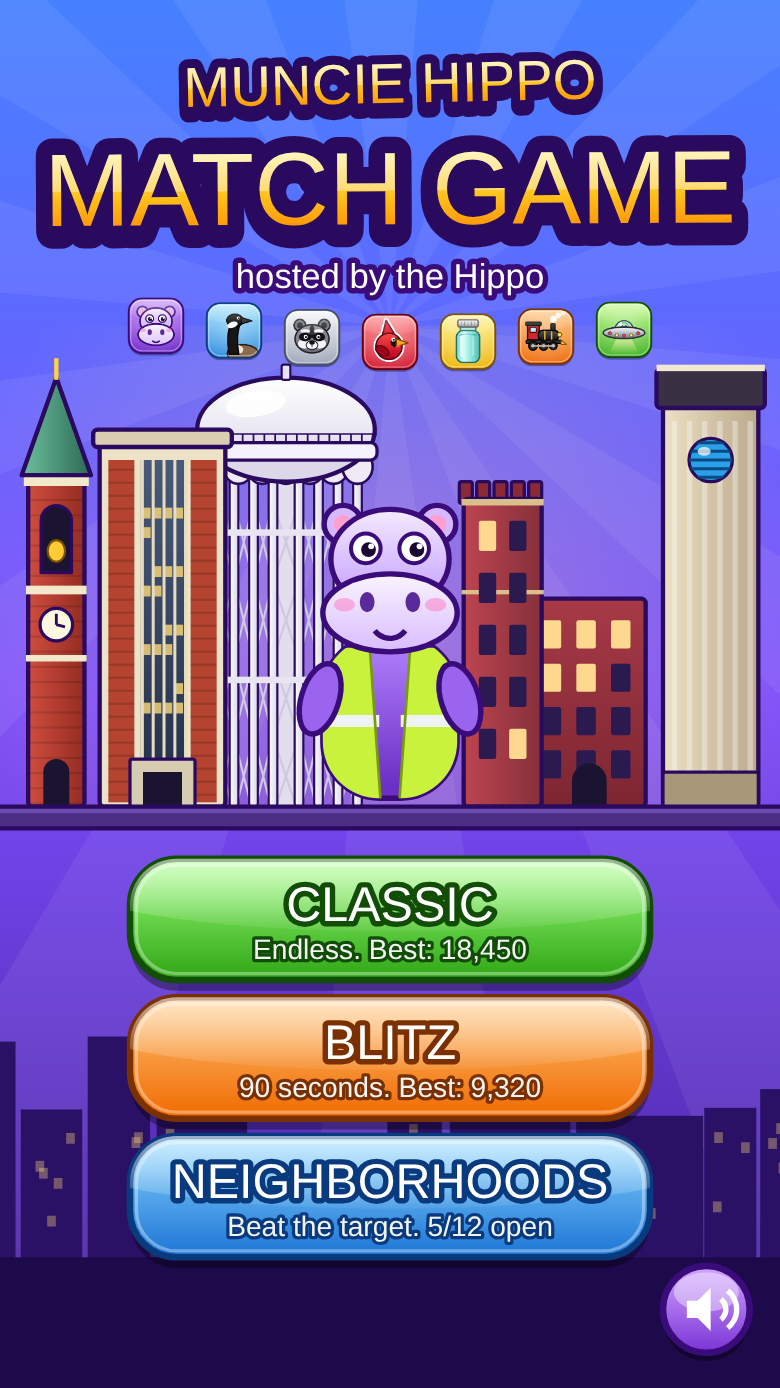
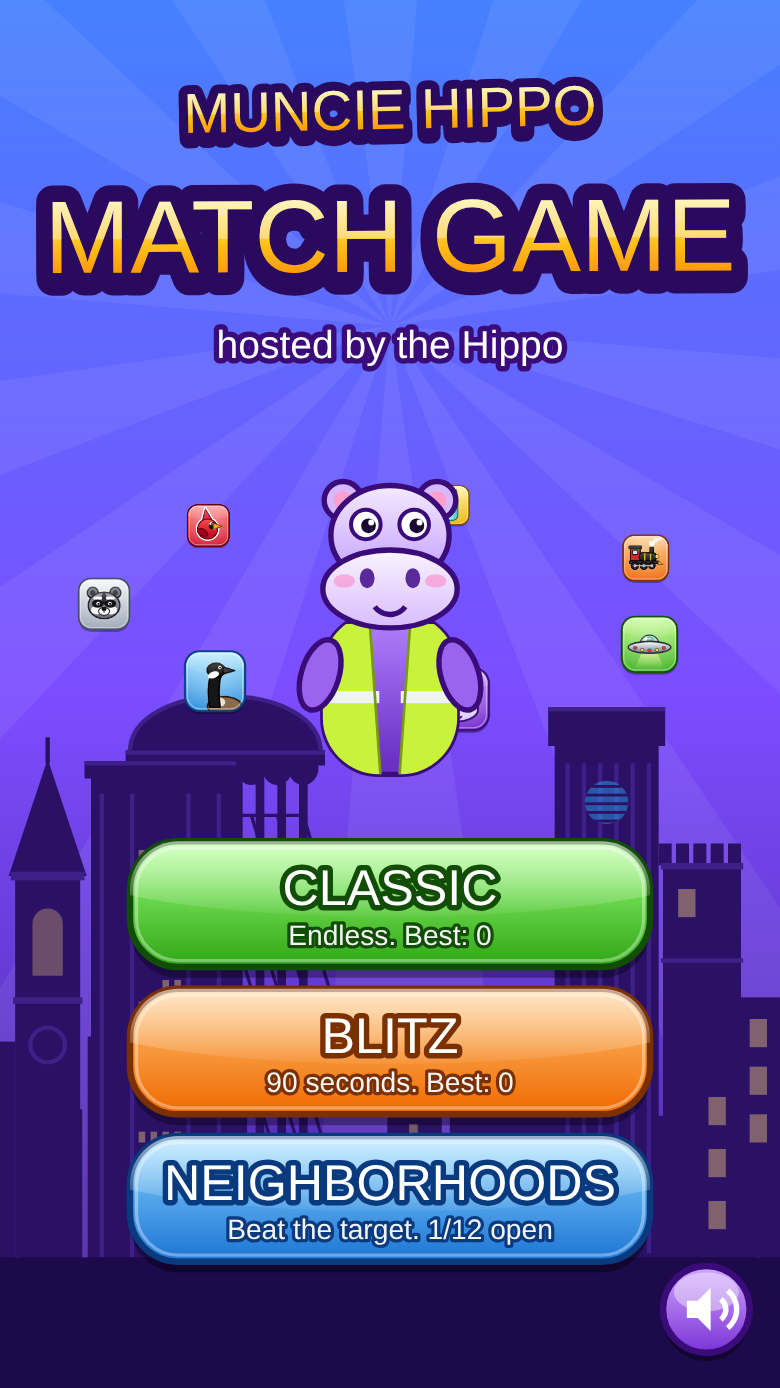
Restore the original title layout and work the landmarks into the skyline silhouette
Claude-Session: https://claude.ai/code/session_01RATZJKJaEyU6qf2SM5KjGB

diff --git a/index.html b/index.html
@@ -386,74 +386,48 @@ function drawBG(){const x0=-OX/SC,y0=-OY/SC,w=CW/SC,h=CH/SC;
  ctx.fillStyle='#2b1166';SKY.forEach(b=>{ctx.fillRect(b.x,base-b.h,b.w,b.h+400);});
  SKY.forEach(b=>b.win.forEach(p=>{if(p[2]){ctx.fillStyle='rgba(255,220,120,.35)';ctx.fillRect(b.x+p[0],base-b.h+p[1],4,5);}}));
  if(screen!=='title'){ctx.fillStyle='#2b1166';ctx.fillRect(296,base-118,5,60);ctx.fillRect(318,base-118,5,60);E(ctx,309,base-128,24,18,'#2b1166');P(ctx,[285,base-130,309,base-152,333,base-130],'#2b1166');}
+ if(screen==='title')skyLandmarks(base);
  ctx.fillStyle='#1d0a4a';ctx.fillRect(x0,base,w,y0+h-base);}
 
 /* ---------- screens ---------- */
-const OL='#2a0a5e',GY=372;
 function lit(i){return ((i*2654435761)>>>0)%5<2;}
-function lmShafer(x){const w=26,h=150,top=GY-h;
- R(ctx,x-w/2,top,w,h,2,lg(ctx,x-w/2,0,x+w/2,0,['#cf4d3e','#952c22']),OL,2);
- ctx.fillStyle='rgba(0,0,0,.12)';for(let r=top+8;r<GY;r+=7)ctx.fillRect(x-w/2+1,r,w-2,1);
- ctx.fillStyle='#f2e8cc';ctx.fillRect(x-w/2-2,top-4,w+4,6);ctx.fillRect(x-w/2-1,top+48,w+2,4);ctx.fillRect(x-w/2-1,top+80,w+2,3);
- P(ctx,[x-w/2-3,top-3,x,top-48,x+w/2+3,top-3],lg(ctx,x-16,0,x+16,0,['#6cc09c','#2c6a54']),OL,2);
- ctx.fillStyle='#ffd23f';ctx.fillRect(x-1,top-57,2,10);
- ctx.beginPath();ctx.moveTo(x-7,top+42);ctx.lineTo(x-7,top+18);ctx.arc(x,top+18,7,Math.PI,0);ctx.lineTo(x+7,top+42);ctx.closePath();ctx.fillStyle='#1a1430';ctx.fill();ctx.lineWidth=1.5;ctx.strokeStyle=OL;ctx.stroke();
- E(ctx,x,top+32,4,5,'#ffcc33','#7a5200',1);
- C(ctx,x,top+66,7.5,'#fff8e0',OL,1.5);ctx.strokeStyle=OL;ctx.lineWidth=1.3;ctx.beginPath();ctx.moveTo(x,top+66);ctx.lineTo(x,top+61);ctx.moveTo(x,top+66);ctx.lineTo(x+4,top+67);ctx.stroke();
- ctx.beginPath();ctx.moveTo(x-6,GY);ctx.lineTo(x-6,GY-16);ctx.arc(x,GY-16,6,Math.PI,0);ctx.lineTo(x+6,GY);ctx.closePath();ctx.fillStyle='#1a1430';ctx.fill();}
-function lmTeachers(x){const w=58,h=168,top=GY-h;
- R(ctx,x,top,w,h,2,'#ece2c8',OL,2);
- ctx.fillStyle='#b4432f';ctx.fillRect(x+4,top+8,12,h-10);ctx.fillRect(x+w-16,top+8,12,h-10);
- ctx.fillStyle='rgba(0,0,0,.15)';for(let r=top+12;r<GY;r+=6){ctx.fillRect(x+4,r,12,1);ctx.fillRect(x+w-16,r,12,1);}
- ctx.fillStyle=lg(ctx,0,top,0,GY,['#4a5c7c','#222e48']);ctx.fillRect(x+19,top+8,w-38,h-10);
- for(let r=top+12,i=0;r<GY-24;r+=9)for(let c=0;c<4;c++,i++)if(lit(i+3)){ctx.fillStyle='rgba(255,220,120,.8)';ctx.fillRect(x+20+c*5,r,3.5,5);}
- ctx.fillStyle='#e6dcc0';for(let i=0;i<5;i++)ctx.fillRect(x+19+i*5,top+8,1.4,h-10);
- R(ctx,x-3,top-6,w+6,8,2,'#d9ceb2',OL,2);
- R(ctx,x+14,GY-22,w-28,22,1,'#d6ccb2',OL,1.5);ctx.fillStyle='#1a1430';ctx.fillRect(x+20,GY-16,w-40,16);}
-function lmCornerstone(x){
- R(ctx,x+28,GY-96,56,96,2,lg(ctx,0,GY-96,0,GY,['#a63a46','#7c2632']),OL,2);
- for(let r=0;r<4;r++)for(let c=0;c<3;c++){const k=r*3+c;R(ctx,x+36+c*16,GY-86+r*20,9,13,1,lit(k+11)?'#ffd890':'#2a1a50');}
- ctx.beginPath();ctx.moveTo(x+50,GY);ctx.lineTo(x+50,GY-12);ctx.arc(x+58,GY-12,8,Math.PI,0);ctx.lineTo(x+66,GY);ctx.closePath();ctx.fillStyle='#1a1430';ctx.fill();
- for(let c=0;c<5;c++)R(ctx,x-2+c*8,GY-150,6,10,1,'#8a2a36',OL,1.5);
- R(ctx,x,GY-142,36,142,2,lg(ctx,x,0,x+36,0,['#bd4450','#86303a']),OL,2);
- ctx.fillStyle='#d9c08a';ctx.fillRect(x-1,GY-142,38,3);ctx.fillRect(x-1,GY-100,38,2);
- for(let r=0;r<5;r++){R(ctx,x+7,GY-132+r*24,8,14,1,lit(r+2)?'#ffd890':'#2a1a50');R(ctx,x+21,GY-132+r*24,8,14,1,lit(r+7)?'#ffd890':'#2a1a50');}}
-function lmATT(x){const w=44,h=196,top=GY-h;
- R(ctx,x,top,w,h,2,lg(ctx,x,0,x+w,0,['#ece0c4','#bba98a']),OL,2);
- ctx.fillStyle='rgba(255,255,255,.35)';for(let c=0;c<6;c++)ctx.fillRect(x+4+c*7,top+18,2.5,h-34);
- R(ctx,x-3,top-6,w+6,18,2,'#3a3044',OL,2);ctx.fillStyle='#f2e8d2';ctx.fillRect(x-3,top-8,w+6,3);
- R(ctx,x,GY-16,w,16,1,'#a8987a',OL,1.5);
- const gx=x+w/2,gy=top+36;C(ctx,gx,gy,10,'#2aa0e8',OL,1.5);
- ctx.save();ctx.beginPath();ctx.arc(gx,gy,10,0,Math.PI*2);ctx.clip();ctx.strokeStyle='#0a4a80';ctx.lineWidth=1.4;for(let i=-8;i<=8;i+=4){ctx.beginPath();ctx.moveTo(gx-11,gy+i);ctx.lineTo(gx+11,gy+i);ctx.stroke();}ctx.restore();
- E(ctx,gx-3,gy-4,3,2,'rgba(255,255,255,.7)');}
-function lmWater(x){const ty=GY-170;
- R(ctx,x-6,ty+10,12,GY-ty-10,0,'#e2deee',OL,1.2);
- const legs=[-33,-24,-15,-6,6,15,24,33];
- ctx.strokeStyle='#cfc9e0';ctx.lineWidth=1;
- for(let i=0;i<legs.length-1;i++)for(let y=ty+30;y<GY-10;y+=36){ctx.beginPath();ctx.moveTo(x+legs[i],y);ctx.lineTo(x+legs[i+1],y+36);ctx.moveTo(x+legs[i+1],y);ctx.lineTo(x+legs[i],y+36);ctx.stroke();}
- for(const lx of legs)R(ctx,x+lx-2,ty+14,4,GY-ty-14,1.5,lg(ctx,x+lx-2,0,x+lx+2,0,['#ffffff','#d8d4e8']),OL,1);
- ctx.fillStyle='#e8e4f2';ctx.fillRect(x-36,ty+42,72,3);ctx.fillRect(x-36,ty+110,72,3);
- for(let i=-3;i<=3;i++)E(ctx,x+i*11,ty+13,7,8,'#eeeaf6',OL,1.2);
- E(ctx,x,ty-4,41,24,lg(ctx,0,ty-28,0,ty+12,['#ffffff','#dcd8ea']),OL,2);
- R(ctx,x-42,ty+2,84,8,3,'#f4f2fa',OL,1.5);
- ctx.strokeStyle=OL;ctx.lineWidth=.8;for(let i=-40;i<=40;i+=5){ctx.beginPath();ctx.moveTo(x+i,ty+2);ctx.lineTo(x+i,ty-2);ctx.stroke();}
- ctx.beginPath();ctx.moveTo(x-42,ty-2);ctx.lineTo(x+42,ty-2);ctx.stroke();
- E(ctx,x-14,ty-16,14,6,'rgba(255,255,255,.85)',null,0,-.15);
- R(ctx,x-2,ty-34,4,7,1,'#e8e4f2',OL,1);}
-function drawTitleSkyline(){
- const g=ctx.createRadialGradient(180,300,20,180,300,220);g.addColorStop(0,'rgba(255,210,140,.28)');g.addColorStop(1,'rgba(255,210,140,0)');ctx.fillStyle=g;ctx.fillRect(0,150,360,230);
- lmWater(132);lmShafer(26);lmTeachers(46);lmATT(306);lmCornerstone(214);
- R(ctx,-40,GY,440,10,0,'#4a2f84',OL,2);ctx.fillStyle='#6a4ab0';ctx.fillRect(-40,GY+1,440,2);}
+/* landmark silhouettes worked into the title skyline (base = ground line) */
+function skyLandmarks(base){const S='#2b1166',D='#3d2088',W='rgba(255,220,120,.4)';ctx.save();
+ const win=(x,y,w,h,i)=>{if(lit(i)){ctx.fillStyle=W;ctx.fillRect(x,y,w,h);}};
+ // water tower, high over downtown
+ let x=104;const ty=base-238;ctx.fillStyle=S;
+ for(const lx of [-36,-26,-16,-6,6,16,26,36])ctx.fillRect(x+lx-2,ty+12,4,base-ty-12);ctx.fillRect(x-6,ty+10,12,base-ty-10);
+ ctx.strokeStyle=S;ctx.lineWidth=1.5;for(let y=ty+34;y<base-10;y+=40){ctx.beginPath();ctx.moveTo(x-36,y);ctx.lineTo(x+36,y);ctx.stroke();for(let i=0;i<7;i++){const a=-36+i*12;ctx.beginPath();ctx.moveTo(x+a,y);ctx.lineTo(x+a+12,y+40);ctx.stroke();}}
+ for(let i=-3;i<=3;i++)E(ctx,x+i*12,ty+12,7,8,S);
+ ctx.beginPath();ctx.moveTo(x-44,ty+6);ctx.bezierCurveTo(x-46,ty-30,x+46,ty-30,x+44,ty+6);ctx.closePath();ctx.fillStyle=S;ctx.fill();ctx.strokeStyle=D;ctx.lineWidth=2;ctx.stroke();
+ ctx.fillStyle=S;ctx.fillRect(x-46,ty+4,92,7);ctx.fillStyle=D;ctx.fillRect(x-46,ty+4,92,2);ctx.fillRect(x-2,ty-30,4,9);
+ // Teachers College
+ x=42;let top=base-222;ctx.fillStyle=S;ctx.fillRect(x,top,64,222);ctx.fillRect(x-3,top-7,70,8);
+ ctx.fillStyle=D;ctx.fillRect(x-3,top-7,70,2);ctx.fillRect(x+4,top+8,2,214);ctx.fillRect(x+58,top+8,2,214);ctx.fillRect(x+18,top+8,2,214);ctx.fillRect(x+44,top+8,2,214);
+ for(let r=top+14,i=0;r<base-10;r+=10)for(let c=0;c<4;c++,i++)win(x+22+c*5.5,r,3,5,i+3);
+ // Shafer bell tower
+ x=22;top=base-176;ctx.fillStyle=S;ctx.fillRect(x-15,top,30,176);P(ctx,[x-18,top,x,top-54,x+18,top],S);ctx.fillRect(x-1,top-64,2,12);
+ ctx.fillStyle=D;ctx.fillRect(x-17,top-2,34,4);ctx.fillRect(x-16,top+56,32,3);ctx.beginPath();ctx.arc(x,top+78,8,0,Math.PI*2);ctx.strokeStyle=D;ctx.lineWidth=2;ctx.stroke();
+ ctx.beginPath();ctx.moveTo(x-7,top+46);ctx.lineTo(x-7,top+22);ctx.arc(x,top+22,7,Math.PI,0);ctx.lineTo(x+7,top+46);ctx.closePath();ctx.fillStyle='rgba(255,220,120,.3)';ctx.fill();
+ // AT&T building
+ x=256;top=base-248;ctx.fillStyle=S;ctx.fillRect(x,top,48,248);ctx.fillRect(x-3,top-6,54,18);
+ ctx.fillStyle=D;ctx.fillRect(x-3,top-6,54,2);for(let c=0;c<6;c++)ctx.fillRect(x+5+c*7.5,top+20,2,226);
+ C(ctx,x+24,top+38,10,'rgba(42,160,232,.5)');ctx.save();ctx.beginPath();ctx.arc(x+24,top+38,10,0,Math.PI*2);ctx.clip();ctx.fillStyle=S;for(let i=-8;i<=8;i+=4)ctx.fillRect(x+12,top+38+i,24,1.3);ctx.restore();
+ // Cornerstone
+ x=306;top=base-182;ctx.fillStyle=S;ctx.fillRect(x+30,base-120,40,120);ctx.fillRect(x,top,36,182);for(let c=0;c<5;c++)ctx.fillRect(x-2+c*8,top-9,6,10);
+ ctx.fillStyle=D;ctx.fillRect(x-1,top,38,3);ctx.fillRect(x-1,top+44,38,2);
+ for(let r=0;r<7;r++){win(x+7,top+12+r*24,8,13,r+2);win(x+21,top+12+r*24,8,13,r+7);}
+ for(let r=0;r<5;r++)for(let c=0;c<2;c++)win(x+40+c*14,base-110+r*22,8,13,r*2+c+11);
+ ctx.restore();}
 function drawTitle(){
- ctx.save();ctx.translate(180,40);ctx.rotate(-.02);bigText('MUNCIE HIPPO',0,0,26);ctx.restore();
- ctx.save();ctx.translate(180,90);ctx.rotate(.02*Math.sin(T*2));const pz=1+.03*Math.sin(T*3);ctx.scale(pz,pz);bigText('MATCH GAME',0,0,fitSize('MATCH GAME',58,330));ctx.restore();
- txt('hosted by the Hippo',180,128,16,'#fff','center','#3a0c7a',5);
- drawTitleSkyline();
- for(let i=0;i<7;i++){const x=72+i*36,y=154+Math.sin(T*3+i*.8)*4;ctx.drawImage(SPR[i],x-14,y-14,28,28);}
- ctx.save();ctx.translate(180,272+Math.sin(T*3)*2);ctx.scale(.62,.62);drawHippoBig(ctx);ctx.restore();
- button('classic','CLASSIC',60,396,240,56,'green',()=>startGame('classic'),'Endless. Best: '+best.classic.toLocaleString());
- button('blitz','BLITZ',60,460,240,56,'orange',()=>startGame('blitz'),BLITZ_TIME+' seconds. Best: '+best.blitz.toLocaleString());
- button('hoods','NEIGHBORHOODS',60,524,240,56,'blue',()=>{screen='hoods';},'Beat the target. '+unlocked+'/'+HOODS.length+' open');
+ ctx.save();ctx.translate(180,52);ctx.rotate(-.02);bigText('MUNCIE HIPPO',0,0,26);ctx.restore();
+ ctx.save();ctx.translate(180,112);ctx.rotate(.02*Math.sin(T*2));const pz=1+.03*Math.sin(T*3);ctx.scale(pz,pz);bigText('MATCH GAME',0,0,fitSize('MATCH GAME',58,330));ctx.restore();
+ txt('hosted by the Hippo',180,160,18,'#fff','center','#3a0c7a',5);
+ for(let i=0;i<7;i++){const a=T*.8+i*Math.PI*2/7;const x=180+Math.cos(a)*132,y=278+Math.sin(a)*46;ctx.save();ctx.translate(x,y);const s=26+6*Math.sin(a);ctx.drawImage(SPR[i],-s/2,-s/2,s,s);ctx.restore();}
+ ctx.save();ctx.translate(180,262+Math.sin(T*3)*3);ctx.scale(.62,.62);drawHippoBig(ctx);ctx.restore();
+ button('classic','CLASSIC',60,388,240,58,'green',()=>startGame('classic'),'Endless. Best: '+best.classic.toLocaleString());
+ button('blitz','BLITZ',60,456,240,58,'orange',()=>startGame('blitz'),BLITZ_TIME+' seconds. Best: '+best.blitz.toLocaleString());
+ button('hoods','NEIGHBORHOODS',60,524,240,58,'blue',()=>{screen='hoods';},'Beat the target. '+unlocked+'/'+HOODS.length+' open');
  iconButton('mute',326,604,20,'purple',()=>{muted=!muted;store.set('muted',muted);},(x,y)=>drawSpeaker(x,y));}
 function drawSpeaker(x,y){P(ctx,[x-9,y-4,x-4,y-4,x+2,y-10,x+2,y+10,x-4,y+4,x-9,y+4],'#fff');
  if(muted){ctx.strokeStyle='#ff4a4a';ctx.lineWidth=3;ctx.beginPath();ctx.moveTo(x+5,y-6);ctx.lineTo(x+12,y+6);ctx.moveTo(x+12,y-6);ctx.lineTo(x+5,y+6);ctx.stroke();}

diff --git a/README.md b/README.md
@@ -43,7 +43,7 @@ A match-3 puzzle game for phones, hosted by the purple hippo from Muncie Hippo H
 
 - Glossy tiles and buttons in the style of a 2010 iPhone game
 - The purple hippo cheers your combos, winks at the big moves and gives tips
-- A title-screen skyline with the AT&T building, Cornerstone, Ball State's Teachers College and bell tower, and the big downtown water tower
+- A title-screen skyline worked in with silhouettes of the AT&T building, Cornerstone, Ball State's Teachers College and bell tower, and the big downtown water tower
 - Sound effects, best scores and saved neighborhood progress
 
 ## Notes
